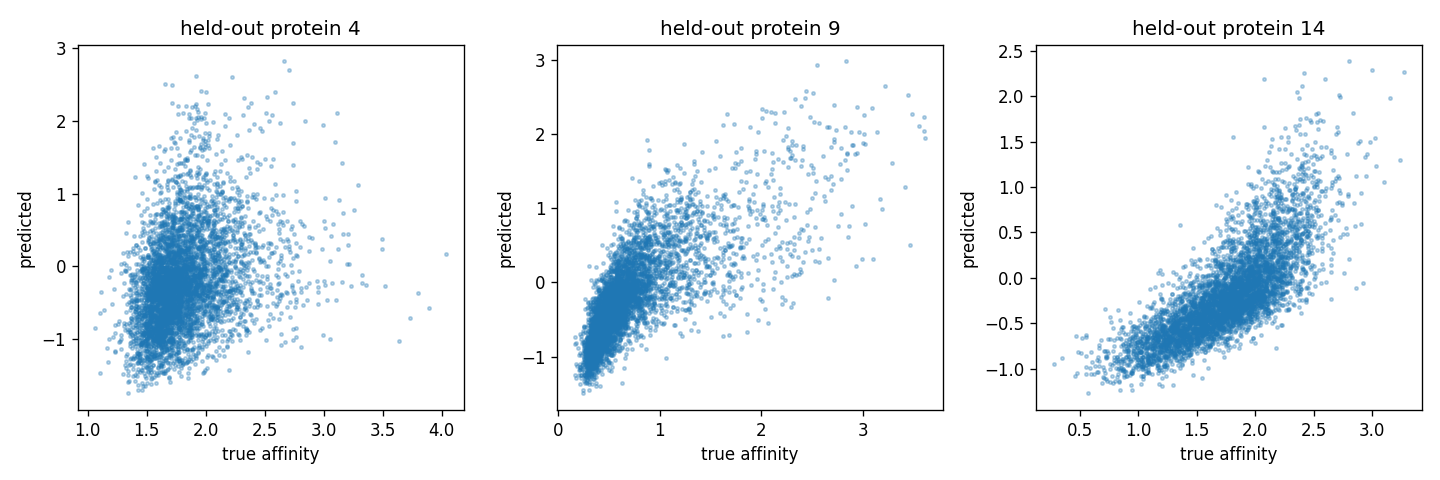
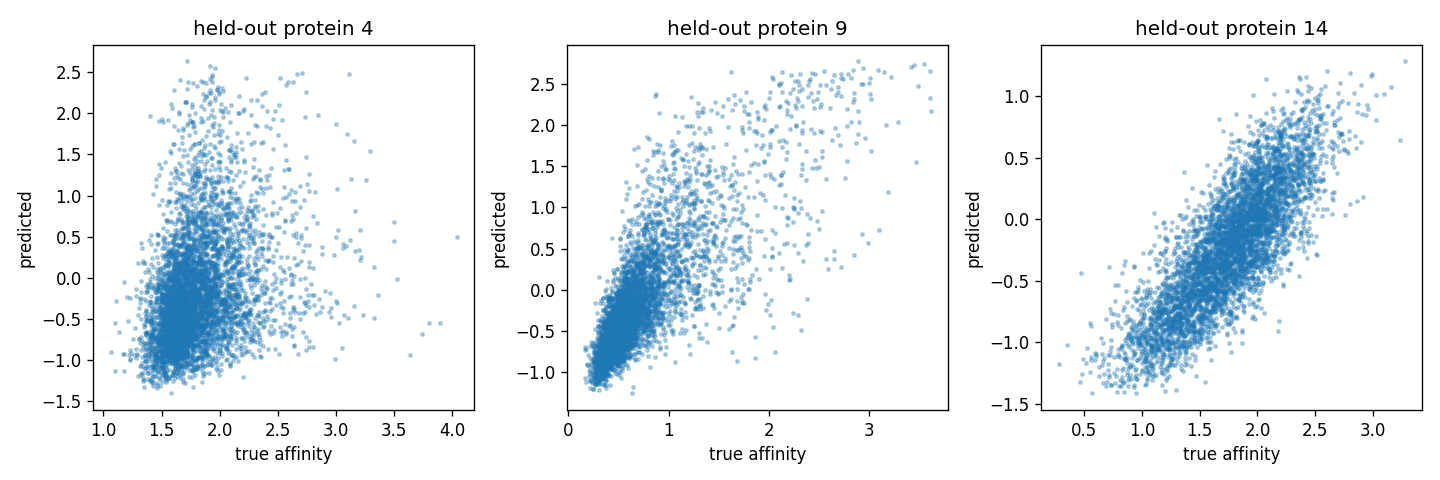
Enhance functionality and organization: - Add new utility functions for device selection and config loading. - Update training configuration for larger batch sizes. - Refactor data handling in training and evaluation scripts. - Improve command execution scripts in settings. - Update .gitignore to ex

diff --git a/train.py b/train.py
@@ -18,7 +18,6 @@ import os
 import numpy as np
 import torch
 import torch.nn as nn
-import yaml
 from torch.utils.data import DataLoader
 
 from data import (
@@ -31,19 +30,7 @@ from data import (
 )
 from metrics import per_protein_correlations
 from model import build_model
-
-
-def pick_device() -> torch.device:
-    if torch.backends.mps.is_available():
-        return torch.device("mps")
-    if torch.cuda.is_available():
-        return torch.device("cuda")
-    return torch.device("cpu")
-
-
-def load_config(path: str) -> dict:
-    with open(path) as fh:
-        return yaml.safe_load(fh)
+from utils import load_config, pick_device
 
 
 def pairs_for_proteins(dna_idx, prot_idx, aff, prot_ids: np.ndarray):
@@ -52,19 +39,21 @@ def pairs_for_proteins(dna_idx, prot_idx, aff, prot_ids: np.ndarray):
     return dna_idx[mask], prot_idx[mask], aff[mask]
 
 
-def run_epoch(model, loader, esm_emb, device, rc_prob, optimizer=None, loss_fn=None):
+def run_epoch(model, loader, dna_onehot, esm_emb, device, rc_prob, optimizer=None, loss_fn=None):
     """One pass over loader. If optimizer is None, runs in eval mode.
 
-    Returns (mean_loss, prot_idx, y_true_std, y_pred_std) where the y arrays are
-    only populated in eval mode (optimizer is None).
+    `dna_onehot` and `esm_emb` are device-resident lookup tables; the loader only
+    supplies indices, so per-batch host->device transfer is just the index/target
+    tensors. Returns (mean_loss, prot_idx, y_true, y_pred); the y arrays are only
+    populated in eval mode (optimizer is None).
     """
     train_mode = optimizer is not None
     model.train(train_mode)
     total, n = 0.0, 0
     all_pidx, all_true, all_pred = [], [], []
 
-    for dna, pidx, target in loader:
-        dna = dna.to(device)
+    for didx, pidx, target in loader:
+        dna = dna_onehot[didx.to(device)]  # gather one-hots on-device
         target = target.to(device)
         if train_mode and rc_prob > 0:
             # reverse-complement augmentation on a random subset of the batch
@@ -100,7 +89,7 @@ def run_epoch(model, loader, esm_emb, device, rc_prob, optimizer=None, loss_fn=N
     )
 
 
-def train_one_fold(fold, train_ids, val_ids, data, esm_emb, cfg, device, out_dir):
+def train_one_fold(fold, train_ids, val_ids, data, dna_onehot, esm_emb, cfg, device, out_dir):
     dna_idx, prot_idx, aff = build_long_format(data)
     tr = pairs_for_proteins(dna_idx, prot_idx, aff, train_ids)
     va = pairs_for_proteins(dna_idx, prot_idx, aff, val_ids)
@@ -112,8 +101,8 @@ def train_one_fold(fold, train_ids, val_ids, data, esm_emb, cfg, device, out_dir
     tr_t = tfm.transform(tr[1], tr[2])
     va_t = tfm.transform(va[1], va[2])
 
-    train_ds = PairDataset(data, tr[0], tr[1], tr_t)
-    val_ds = PairDataset(data, va[0], va[1], va_t)
+    train_ds = PairDataset(tr[0], tr[1], tr_t)
+    val_ds = PairDataset(va[0], va[1], va_t)
     pin = device.type == "cuda"
     train_dl = DataLoader(train_ds, batch_size=cfg["batch_size"], shuffle=True, pin_memory=pin)
     val_dl = DataLoader(val_ds, batch_size=cfg["batch_size"], shuffle=False, pin_memory=pin)
@@ -131,8 +120,8 @@ def train_one_fold(fold, train_ids, val_ids, data, esm_emb, cfg, device, out_dir
     bad_epochs = 0
 
     for epoch in range(1, cfg["epochs"] + 1):
-        tr_loss, *_ = run_epoch(model, train_dl, esm_emb, device, cfg["rc_prob"], optimizer, loss_fn)
-        val_loss, vpidx, vtrue, vpred = run_epoch(model, val_dl, esm_emb, device, 0.0, None, loss_fn)
+        tr_loss, *_ = run_epoch(model, train_dl, dna_onehot, esm_emb, device, cfg["rc_prob"], optimizer, loss_fn)
+        val_loss, vpidx, vtrue, vpred = run_epoch(model, val_dl, dna_onehot, esm_emb, device, 0.0, None, loss_fn)
         corr = per_protein_correlations(vpidx, vtrue, vpred)
         pe, sp = corr["pearson_mean"], corr["spearman_mean"]
         scheduler.step(pe)
@@ -191,6 +180,9 @@ def main() -> None:
     ckpt = torch.load(os.path.join(here, cfg["esm_cache"]), map_location="cpu")
     esm_emb = ckpt["embeddings"].to(device)
     embedder = ckpt.get("embedder", ckpt.get("model", "?"))
+    # Both lookup tables are tiny; keep them device-resident so the per-batch
+    # transfer is only the index/target tensors (see run_epoch).
+    dna_onehot = torch.from_numpy(data.dna_onehot).to(device)
     print(f"device={device}  protein_emb={tuple(esm_emb.shape)} ({embedder})  pairs={data.n_dna*data.n_prot:,}")
 
     out_dir = os.path.join(here, "runs")
@@ -203,7 +195,7 @@ def main() -> None:
     fold_means = []
     for fold, (train_ids, val_ids) in enumerate(folds):
         print(f"\n=== Fold {fold}: train {len(train_ids)} proteins, hold out {len(val_ids)} ===")
-        preds = train_one_fold(fold, train_ids, val_ids, data, esm_emb, cfg, device, out_dir)
+        preds = train_one_fold(fold, train_ids, val_ids, data, dna_onehot, esm_emb, cfg, device, out_dir)
         corr = per_protein_correlations(preds["prot_idx"], preds["y_true"], preds["y_pred"])
         fold_means.append((corr["pearson_mean"], corr["spearman_mean"]))
 

diff --git a/utils.py b/utils.py
@@ -1,0 +1,21 @@
+"""Small shared helpers used across the pipeline (device + config loading)."""
+
+from __future__ import annotations
+
+import torch
+import yaml
+
+
+def pick_device() -> torch.device:
+    """Prefer Apple MPS, then CUDA, then CPU."""
+    if torch.backends.mps.is_available():
+        return torch.device("mps")
+    if torch.cuda.is_available():
+        return torch.device("cuda")
+    return torch.device("cpu")
+
+
+def load_config(path: str) -> dict:
+    """Load a YAML config file into a dict."""
+    with open(path) as fh:
+        return yaml.safe_load(fh)

diff --git a/data.py b/data.py
@@ -27,6 +27,7 @@ BASES = "ACGT"
 BASE_TO_IDX = {b: i for i, b in enumerate(BASES)}
 # Reverse-complement base index map: A<->T, C<->G  (A=0,C=1,G=2,T=3)
 COMPLEMENT_IDX = np.array([3, 2, 1, 0], dtype=np.int64)
+_COMPLEMENT_T = torch.from_numpy(COMPLEMENT_IDX)  # reused by reverse_complement_onehot
 
 
 def read_lines(path: str) -> list[str]:
@@ -79,7 +80,7 @@ def reverse_complement_onehot(onehot: torch.Tensor) -> torch.Tensor:
     Reverses the length axis and swaps complementary channels. Binding is
     approximately strand-symmetric, so this is a label-preserving augmentation.
     """
-    comp = torch.from_numpy(COMPLEMENT_IDX).to(onehot.device)
+    comp = _COMPLEMENT_T.to(onehot.device)
     return onehot[:, comp, :].flip(dims=[-1])
 
 
@@ -178,21 +179,20 @@ class TargetTransform:
 
 
 class PairDataset(Dataset):
-    """Yields (dna_onehot[L], protein_idx, target) triples for a set of pairs.
+    """Yields (dna_idx, prot_idx, target) index triples for a set of pairs.
 
-    Pairs are given as parallel arrays of dna indices and protein indices into
-    the full BindingData. DNA one-hot tensors are precomputed and shared; the
-    protein index is resolved to an ESM embedding inside the model/training loop.
+    Only lightweight index arrays are carried here. The DNA one-hot tensor and
+    the ESM embeddings live on the compute device and are gathered by index in
+    the training loop, so each batch ships just a few hundred ints/floats instead
+    of stacking and transferring full one-hot tensors (much faster on MPS/CUDA).
     """
 
     def __init__(
         self,
-        data: BindingData,
         dna_idx: np.ndarray,
         prot_idx: np.ndarray,
         targets: np.ndarray,
     ) -> None:
-        self.dna_onehot = torch.from_numpy(data.dna_onehot)  # [N,4,L]
         self.dna_idx = torch.from_numpy(dna_idx.astype(np.int64))
         self.prot_idx = torch.from_numpy(prot_idx.astype(np.int64))
         self.targets = torch.from_numpy(targets.astype(np.float32))
@@ -201,8 +201,7 @@ class PairDataset(Dataset):
         return len(self.dna_idx)
 
     def __getitem__(self, i: int):
-        d = self.dna_idx[i]
-        return self.dna_onehot[d], self.prot_idx[i], self.targets[i]
+        return self.dna_idx[i], self.prot_idx[i], self.targets[i]
 
 
 def build_long_format(data: BindingData):

diff --git a/encoders.py b/encoders.py
@@ -14,6 +14,8 @@ dict {"name": ..., <kwargs>} and constructs the module.
 
 from __future__ import annotations
 
+import inspect
+
 import torch
 import torch.nn as nn
 
@@ -40,12 +42,22 @@ register_interaction = _register(INTERACTIONS)
 
 
 def _build(reg, spec: dict, **injected):
-    """Instantiate reg[spec['name']] with the remaining spec keys + injected kwargs."""
+    """Instantiate reg[spec['name']] with injected kwargs + the spec keys that the
+    target constructor actually accepts.
+
+    Spec keys the chosen component doesn't take are dropped, so a single config
+    block (e.g. the `interaction` block) can carry the union of options' params
+    and you can swap components by changing `name` alone. The flip side: a typo'd
+    config key is silently ignored rather than raising.
+    """
     spec = dict(spec)
     name = spec.pop("name")
     if name not in reg:
         raise KeyError(f"unknown component {name!r}; available: {sorted(reg)}")
-    return reg[name](**injected, **spec)
+    cls = reg[name]
+    accepted = inspect.signature(cls).parameters
+    kwargs = {k: v for k, v in spec.items() if k in accepted}
+    return cls(**injected, **kwargs)
 
 
 def build_dna_encoder(spec: dict, seq_len: int) -> "BaseDNAEncoder":

diff --git a/embed_proteins.py b/embed_proteins.py
@@ -27,6 +27,7 @@ import os
 import torch
 
 from data import read_lines
+from utils import pick_device
 
 EMBEDDERS: dict[str, callable] = {}
 
@@ -36,14 +37,6 @@ def register_embedder(name):
         EMBEDDERS[name] = fn
         return fn
     return deco
-
-
-def pick_device() -> torch.device:
-    if torch.backends.mps.is_available():
-        return torch.device("mps")
-    if torch.cuda.is_available():
-        return torch.device("cuda")
-    return torch.device("cpu")
 
 
 # --- ESM-2 family (frozen, mean-pooled over residues) ----------------------

diff --git a/evaluate.py b/evaluate.py
@@ -25,6 +25,7 @@ import torch
 
 from data import load_data, protein_group_folds
 from metrics import per_protein_correlations
+from utils import load_config
 
 
 def model_results(run_dir: str) -> dict:
@@ -111,11 +112,8 @@ def main() -> None:
     ap.add_argument("--knn-k", type=int, default=1)
     args = ap.parse_args()
 
-    import yaml
-
     here = os.path.dirname(os.path.abspath(__file__))
-    with open(os.path.join(here, args.config)) as fh:
-        cfg = yaml.safe_load(fh)
+    cfg = load_config(os.path.join(here, args.config))
 
     data = load_data(
         os.path.join(here, cfg["dbp_path"]),